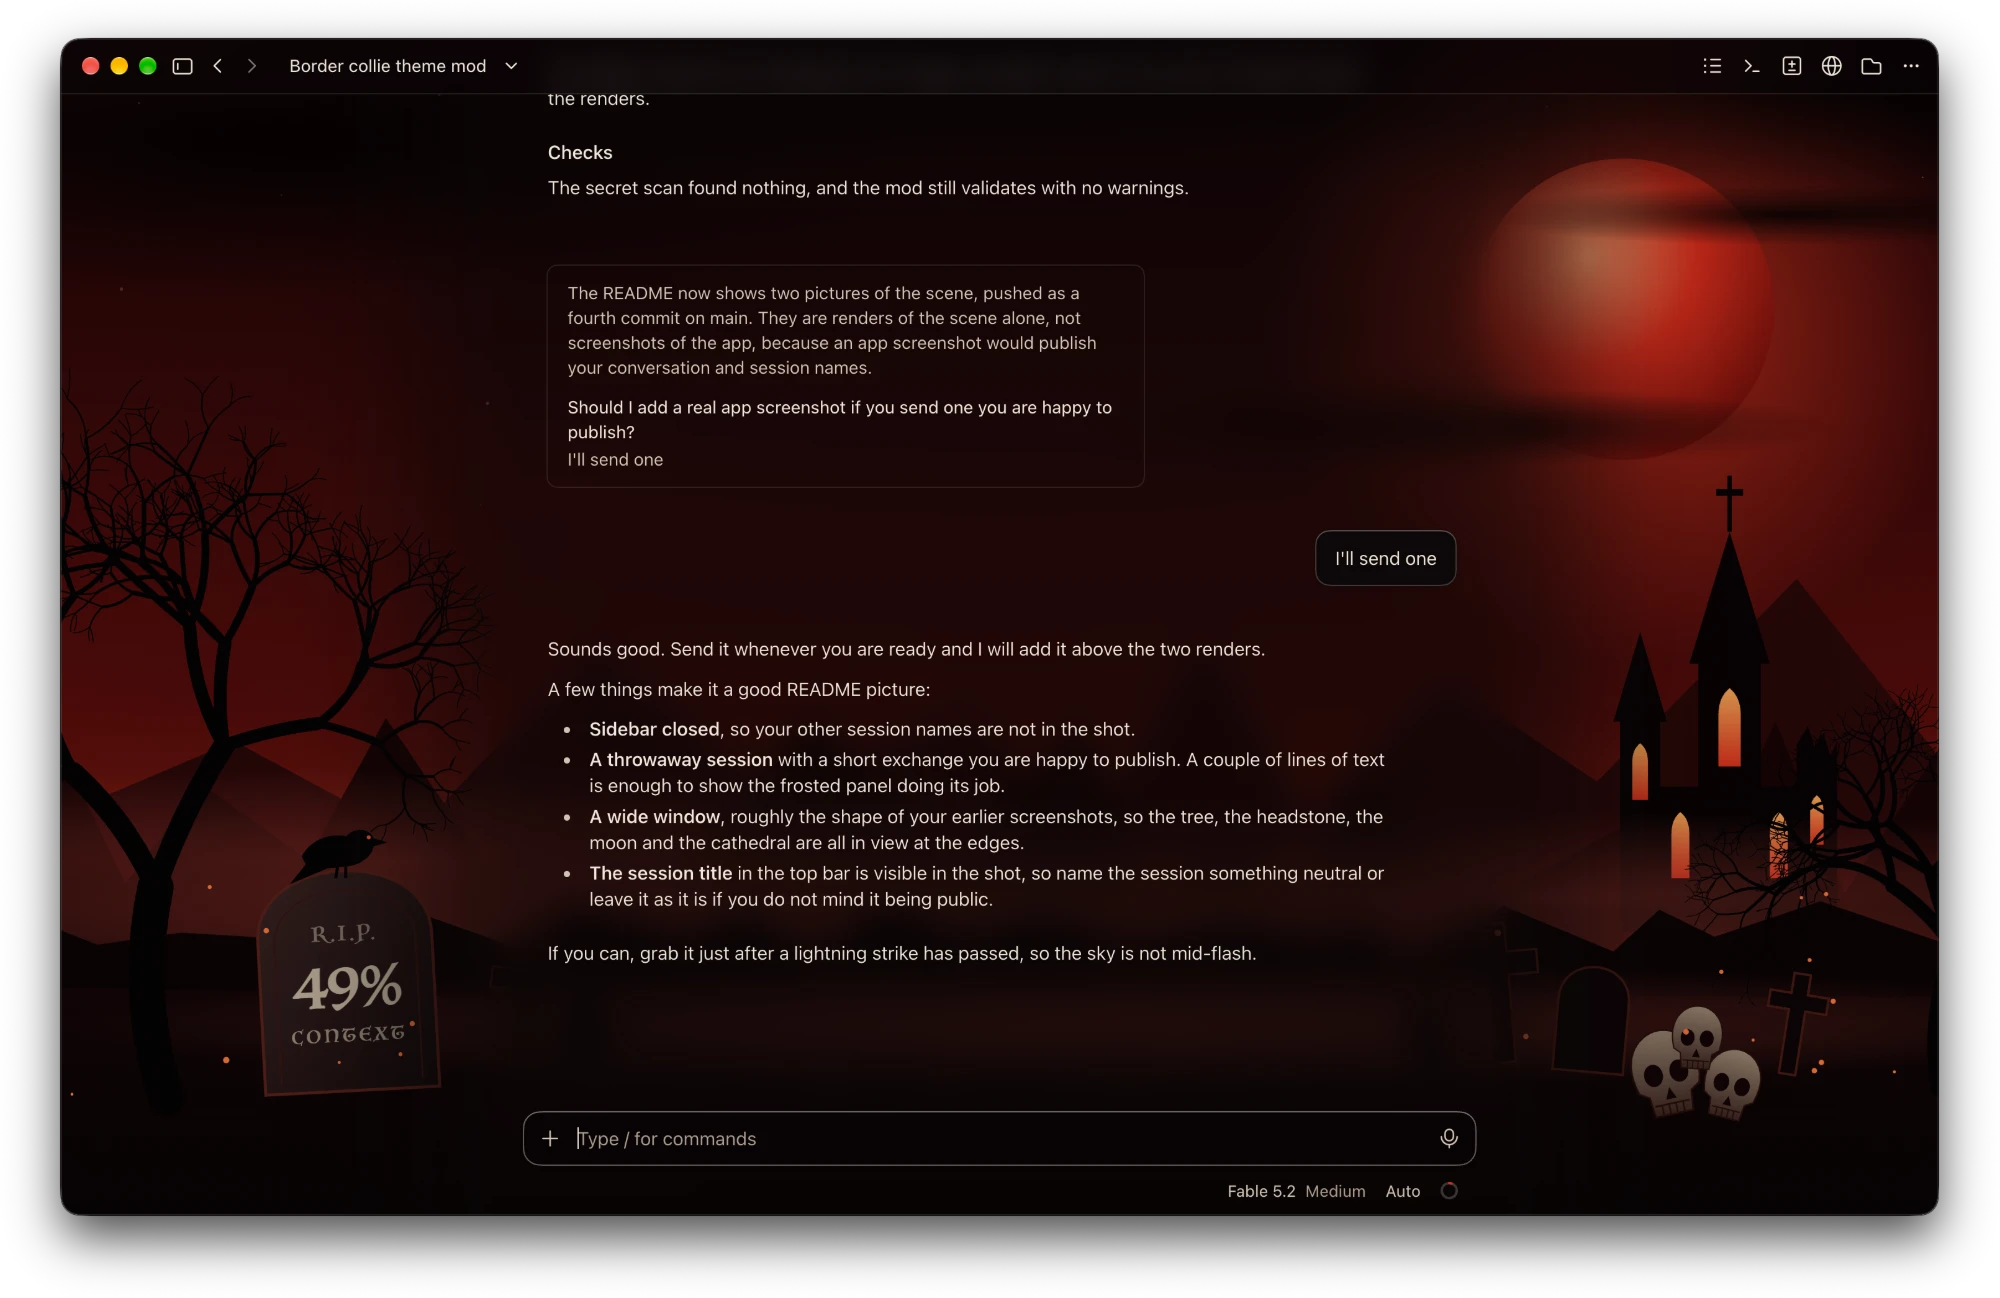
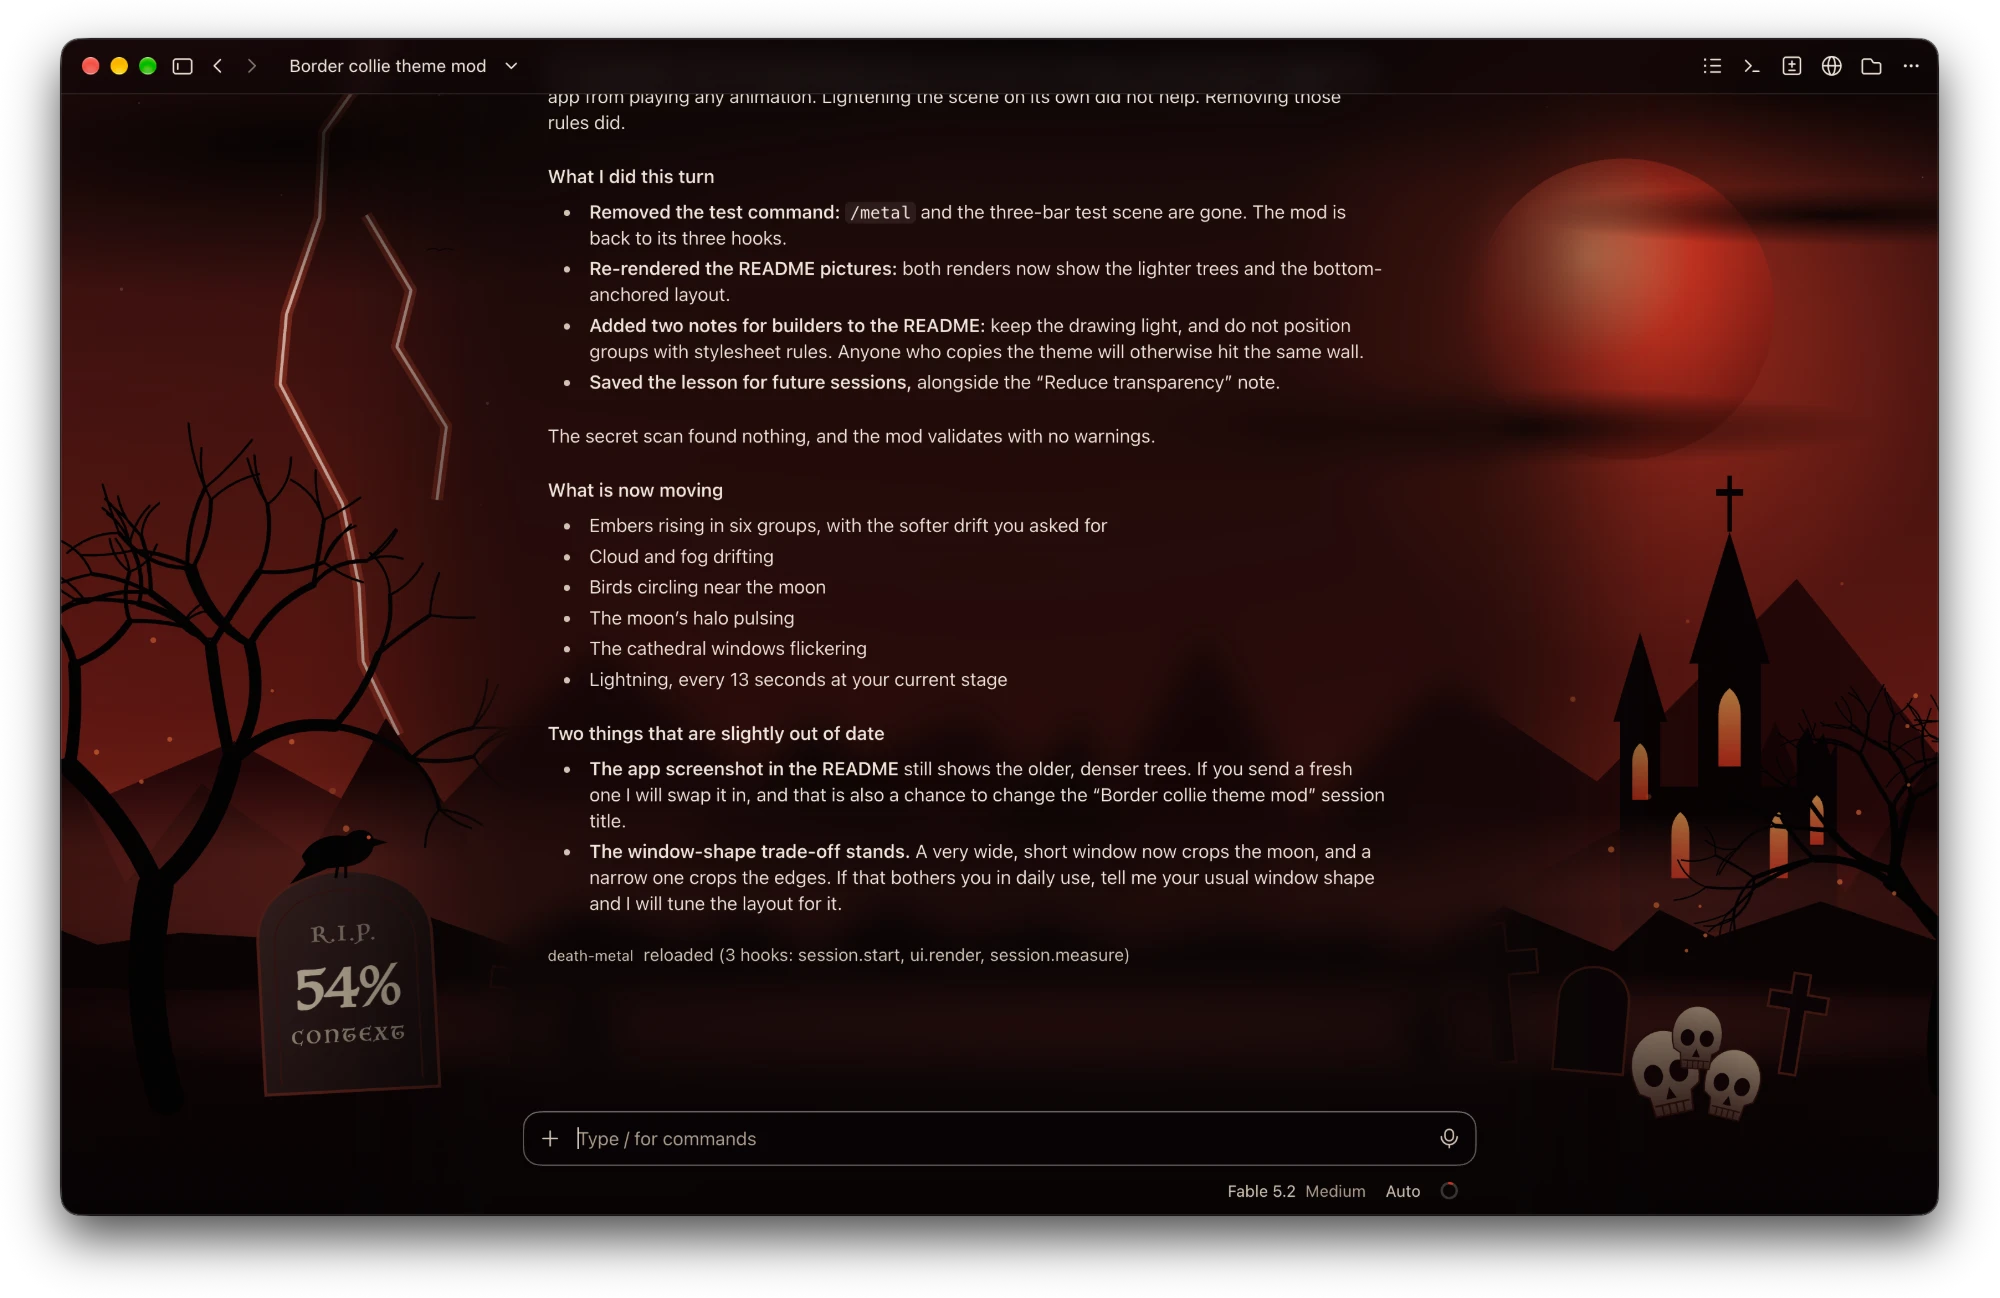
Update the app screenshot to the current scene
It shows the lighter trees and a lightning strike, at 54% context.

diff --git a/README.md b/README.md
@@ -4,10 +4,10 @@ A death metal album cover look for the Claude desktop app: a graveyard under a
 blood moon, drawn behind the conversation, with frosted panels over it and
 blood-red and bone colors throughout the app.
 
-![The theme in the Claude desktop app: the conversation on a frosted panel over the graveyard scene, with the headstone showing 49% context](images/app.webp)
+![The theme in the Claude desktop app: the conversation on a frosted panel over the graveyard scene, lightning striking on the left, and the headstone showing 54% context](images/app.webp)
 
-The theme in the Claude desktop app, at 49% context. The conversation sits on a
-frosted panel, and the scene shows around and through it.
+The theme in the Claude desktop app, at 54% context, caught mid-lightning. The
+conversation sits on a frosted panel, and the scene shows around and through it.
 
 ![The scene alone: a graveyard under a blood moon, with a headstone showing 30% context](images/scene.jpg)
 
